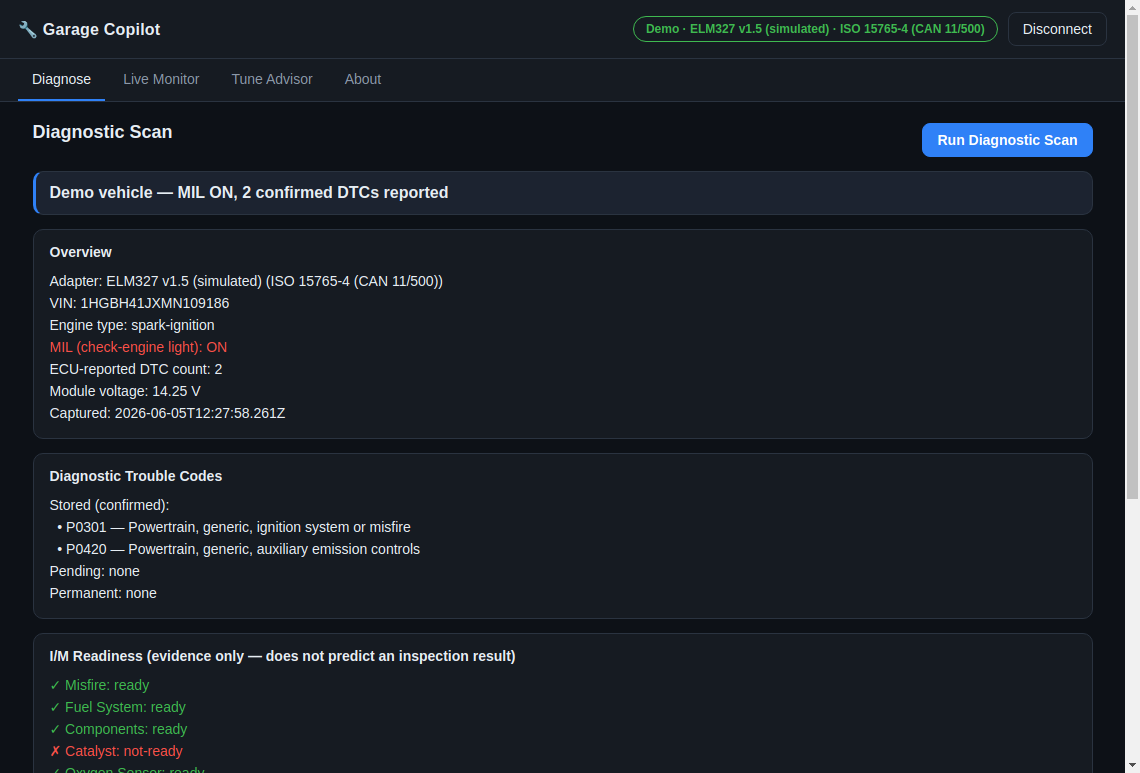
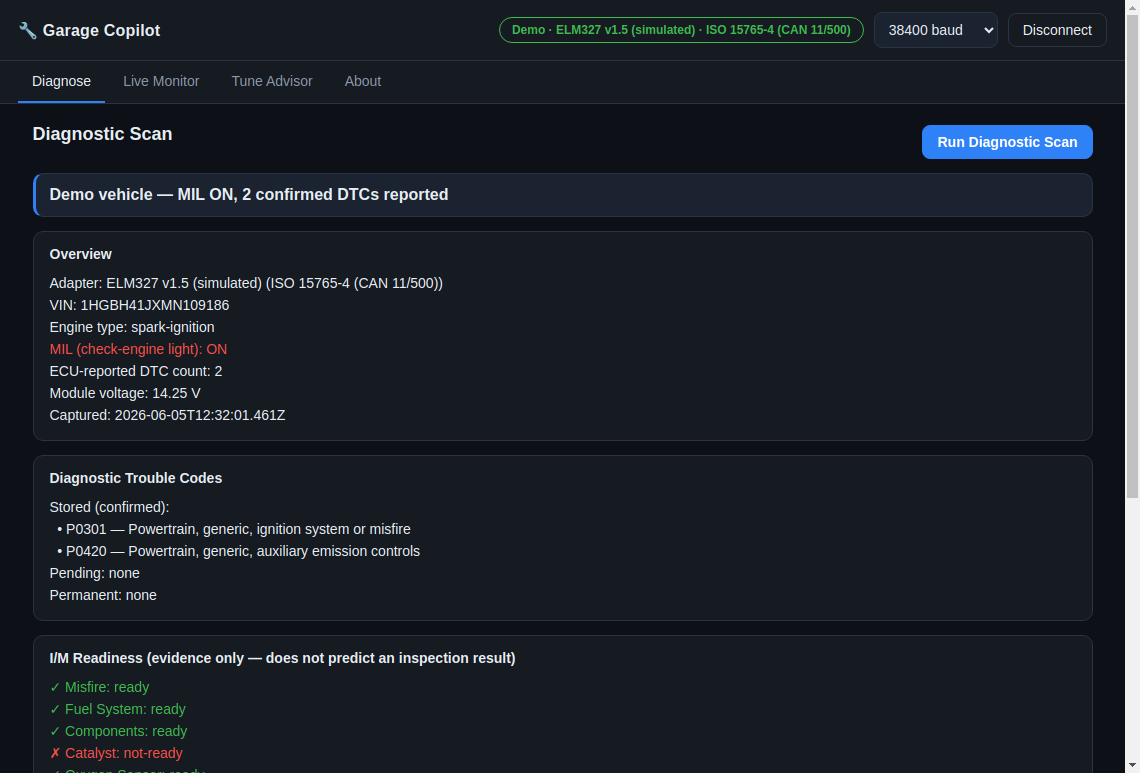
Desktop: baud-rate selector for real adapters; engine README notes VIN + simulator

diff --git a/apps/garage-copilot-desktop/src/renderer/index.html b/apps/garage-copilot-desktop/src/renderer/index.html
@@ -16,6 +16,12 @@
         <div class="brand">🔧 Garage Copilot</div>
         <div class="conn">
           <span id="status-pill" class="pill pill--off">Disconnected</span>
+          <select id="baud" class="baud" title="Adapter baud rate">
+            <option value="38400" selected>38400 baud</option>
+            <option value="9600">9600 baud</option>
+            <option value="115200">115200 baud</option>
+            <option value="500000">500000 baud</option>
+          </select>
           <button id="btn-connect" class="primary">Connect OBD-II</button>
           <button id="btn-demo" class="ghost">Demo mode</button>
           <button id="btn-disconnect" class="ghost" hidden>Disconnect</button>

diff --git a/apps/garage-copilot-desktop/src/renderer/app.ts b/apps/garage-copilot-desktop/src/renderer/app.ts
@@ -84,7 +84,8 @@ async function connectSerial(): Promise<void> {
   setStatus("Select your adapter…", "connecting");
   try {
     const port = await navigator.serial.requestPort();
-    const transport = new WebSerialTransport(port);
+    const baudRate = Number($<HTMLSelectElement>("baud").value) || 38400;
+    const transport = new WebSerialTransport(port, { baudRate });
     await transport.start();
     await activate(new Elm327Client(transport), "OBD-II adapter", false);
   } catch (err) {

diff --git a/apps/garage-copilot-desktop/src/renderer/styles.css b/apps/garage-copilot-desktop/src/renderer/styles.css
@@ -104,6 +104,15 @@ button.ghost {
   background: transparent;
 }
 
+.baud {
+  font: inherit;
+  color: var(--text);
+  background: var(--panel-2);
+  border: 1px solid var(--border);
+  border-radius: 8px;
+  padding: 8px 10px;
+}
+
 /* Tabs */
 .tabs {
   display: flex;

diff --git a/apps/garage-copilot/README.md b/apps/garage-copilot/README.md
@@ -22,8 +22,10 @@ you can try the whole flow right now.
 | **OBD bridge** | `src/obd/elm327.ts` | A real ELM327 AT-command + OBD protocol driver, written against a transport interface so it's 100% testable without hardware. |
 | | `src/obd/pid-formulas.ts` | Standard SAE J1979 Mode-01 PID decode formulas (RPM, coolant, fuel trims, …). |
 | | `src/obd/dtc-decode.ts` | DTC byte → code decode (P0301, …) and Mode-01 PID-01 monitor/readiness decode. |
+| | `src/obd/vin.ts` | Decode the VIN from a Mode-09 PID-02 response (tolerant of multi-frame ISO-TP). |
 | | `src/obd/serial-transport.ts` | Live USB/Bluetooth transport via `serialport` (lazy-loaded; install it only when you want real hardware). |
 | | `src/obd/replay-transport.ts` | Offline transport that replays a canned vehicle — powers `--demo` and the tests. |
+| | `src/obd/simulator.ts` | A `SimulatedObdReader` with time-varying idle data (RPM wander, coolant warm-up) for demos and dev. |
 | **Diagnose** | `src/diagnose/session.ts` | One read-only pass → a `DiagnosticSnapshot` (MIL, DTCs, readiness, live data). |
 | | `src/diagnose/report.ts` | Snapshot → a structured, caveated report with structural DTC decode. |
 | **Monitor** | `src/monitor/recorder.ts` | Sample PIDs over several rounds into a time series (injected clock — deterministic). |
